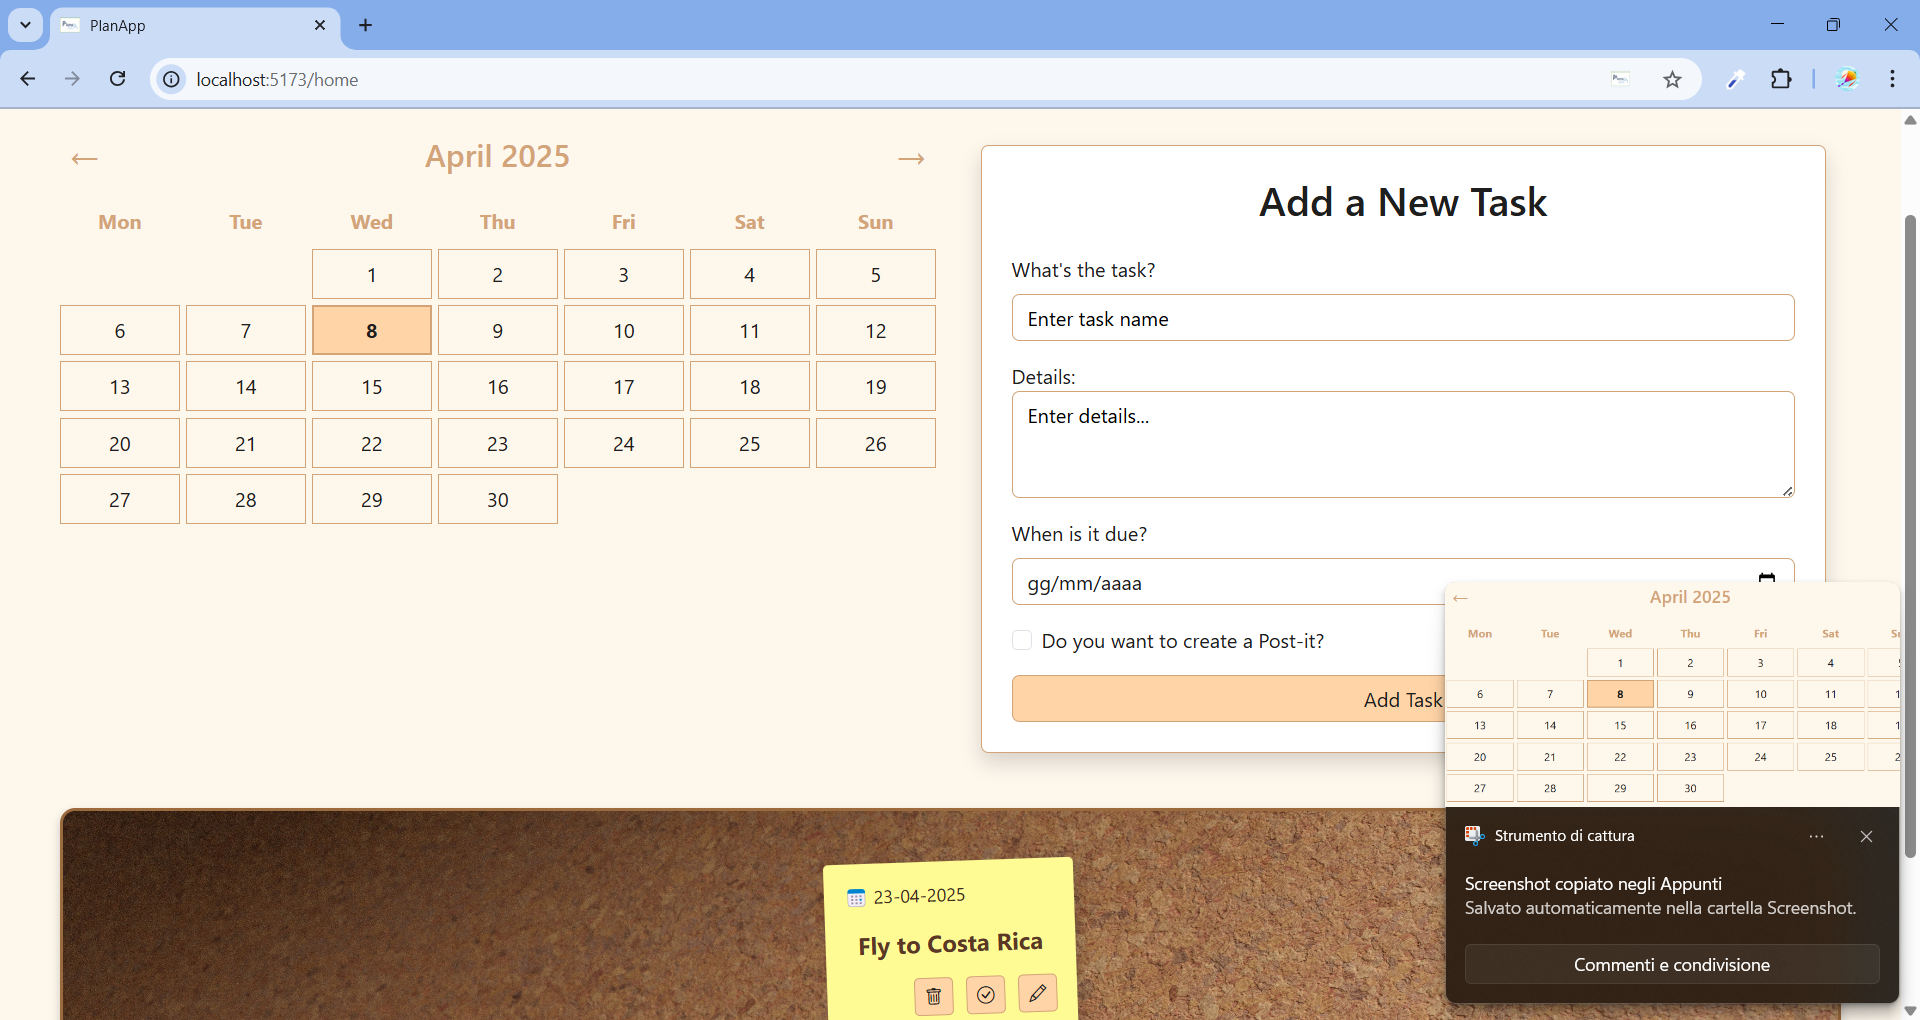
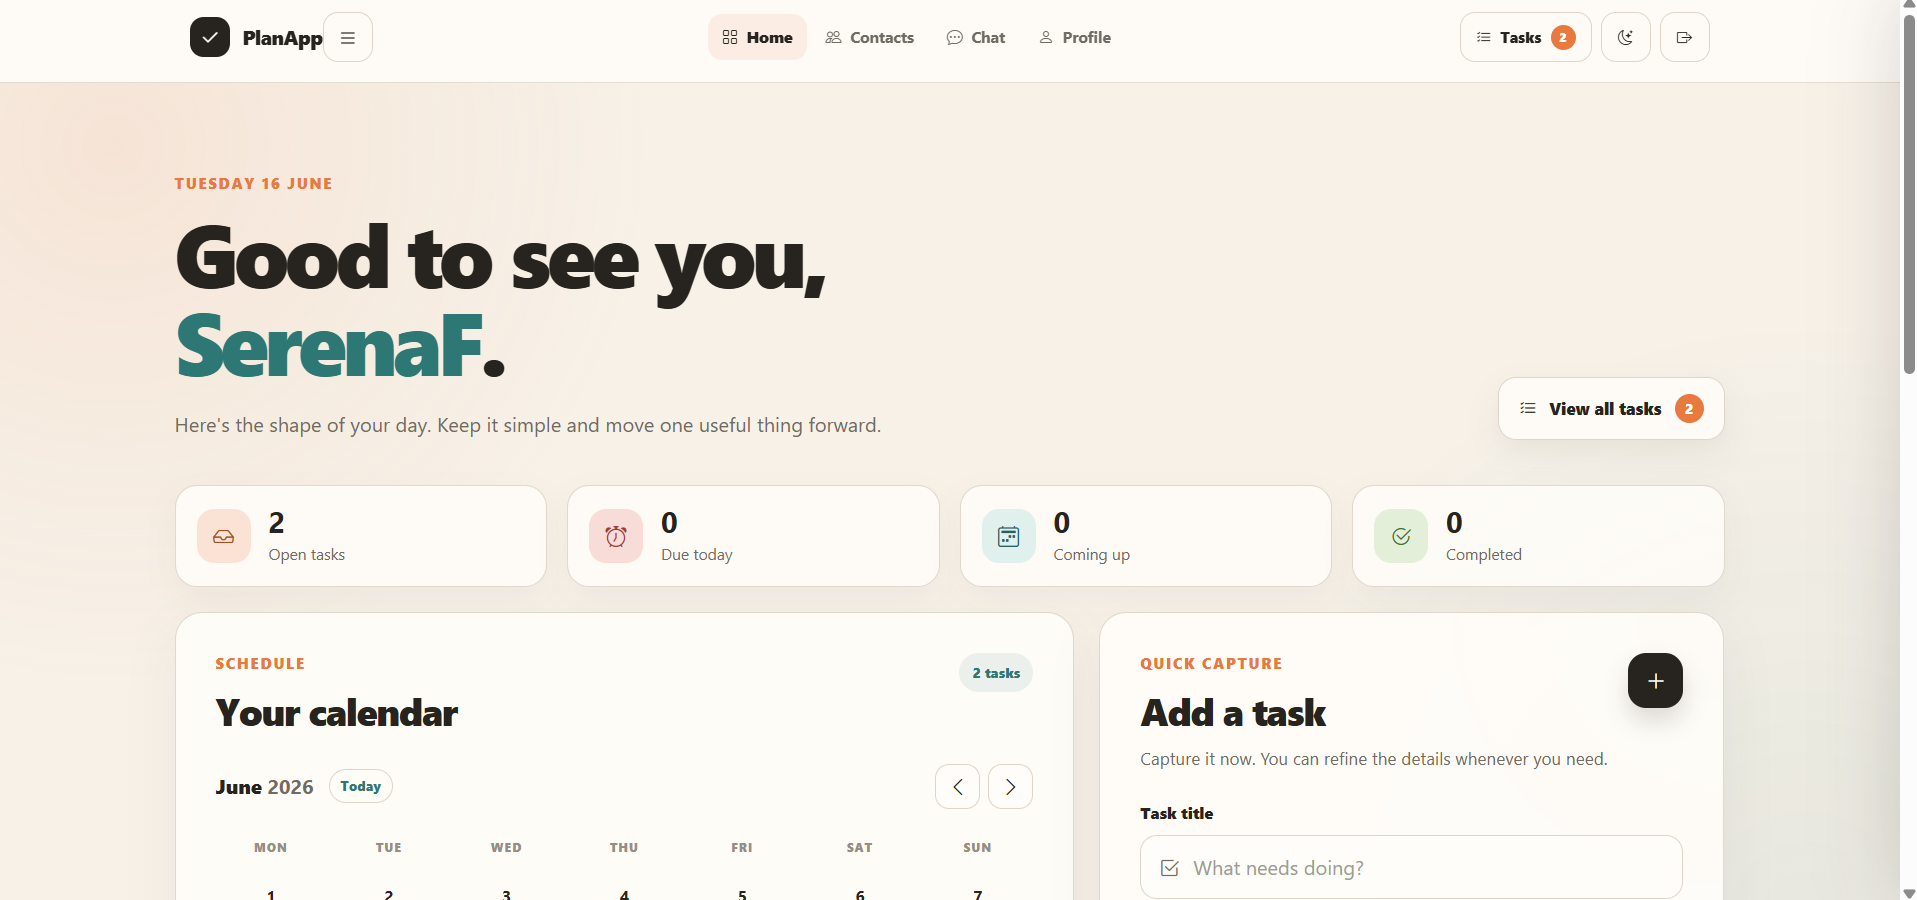
Added new project

diff --git a/projects.html b/projects.html
@@ -60,7 +60,7 @@
           <div class="project-media">
             <img src="./assets/img/destination-explorer.png" alt="Destination Explorer application screenshot">
             <p class="image-placeholder">
-              No image avaiable<br>
+              No image available<br>
               <code>assets/img/destination-explorer.png</code>
             </p>
           </div>
@@ -98,7 +98,7 @@
           <div class="project-media">
             <img src="./assets/img/softleaves.png" alt="SoftLeaves web application screenshot">
             <p class="image-placeholder">
-              No image avaiable<br>
+              No image available<br>
               <code>assets/img/softleaves.png</code>
             </p>
           </div>
@@ -177,6 +177,43 @@
                 rel="noopener noreferrer">Frontend</a>
               <a href="https://github.com/Serena293/job-organizer-backend" target="_blank"
                 rel="noopener noreferrer">Backend</a>
+            </div>
+          </div>
+        </article>
+
+        <article class="project-card plan-project">
+          <div class="project-media">
+            <img src="./assets/img/PlanApp.png" alt="PlanApp productivity application screenshot">
+            <p class="image-placeholder">Screenshot unavailable</p>
+          </div>
+
+          <div class="project-content">
+            <p class="project-type">Bootcamp final project</p>
+            <h3>PlanApp</h3>
+            <p>
+              A full-stack productivity web app for managing personal tasks, contacts and conversations. Users can
+              register, log in, reset their password, organise tasks, manage contacts, chat with saved contacts and
+              edit their profile.
+            </p>
+            <ul class="feature-list compact-features">
+              <li>JWT authentication, password reset and protected APIs</li>
+              <li>Task, contact, chat and profile management</li>
+              <li>Responsive dashboard-style UI with dark mode</li>
+              <li>React and Vite frontend with a Spring Boot backend</li>
+            </ul>
+            <ul class="tech-list" aria-label="Technologies used">
+              <li>React</li>
+              <li>Vite</li>
+              <li>JavaScript</li>
+              <li>Spring Boot</li>
+              <li>JWT</li>
+              <li>REST APIs</li>
+            </ul>
+            <div class="project-links">
+              <a class="primary-link" href="https://fullstack-project-fe.onrender.com" target="_blank"
+                rel="noopener noreferrer">Live demo <span aria-hidden="true">-&gt;</span></a>
+              <a href="https://github.com/Serena293/fullstack-project" target="_blank"
+                rel="noopener noreferrer">Source code</a>
             </div>
           </div>
         </article>

diff --git a/assets/projects.css b/assets/projects.css
@@ -316,7 +316,7 @@ a:focus-visible {
 
 .fullstack-grid {
   display: grid;
-  grid-template-columns: minmax(0, 1.35fr) minmax(320px, 0.65fr);
+  grid-template-columns: minmax(0, 1.08fr) minmax(300px, 0.92fr);
   gap: 2rem;
   align-items: stretch;
 }
@@ -337,6 +337,30 @@ a:focus-visible {
 
 .job-project {
   border-color: rgba(42, 196, 138, 0.42);
+  display: grid;
+  grid-column: 1 / -1;
+  grid-template-columns: minmax(0, 1.08fr) minmax(420px, 0.92fr);
+}
+
+.job-project .project-media {
+  min-height: 360px;
+  max-height: none;
+}
+
+.job-project .project-content {
+  flex: initial;
+}
+
+.plan-project {
+  border-color: rgba(42, 196, 138, 0.3);
+}
+
+.plan-project .project-media {
+  min-height: 250px;
+}
+
+.plan-project .project-content h3 {
+  font-size: clamp(1.7rem, 2.4vw, 2.15rem);
 }
 
 .hr-project .project-media {
@@ -448,6 +472,11 @@ footer > a:focus-visible {
     grid-template-columns: 1fr;
   }
 
+  .job-project {
+    grid-column: auto;
+    grid-template-columns: 1fr;
+  }
+
   .project-card-featured {
     min-height: auto;
   }
@@ -547,4 +576,3 @@ footer > a:focus-visible {
     transition: none;
   }
 }
-